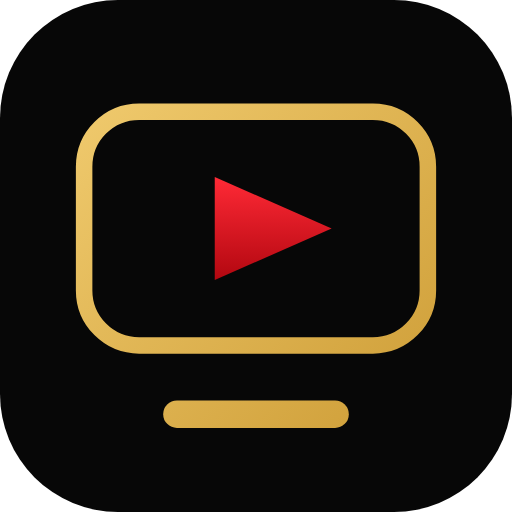
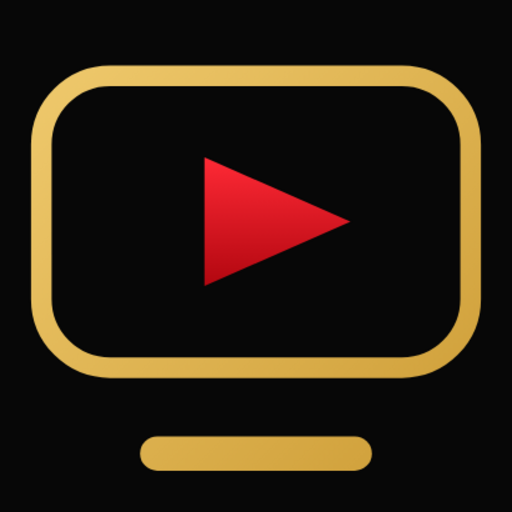
Icones: desenho ocupando o quadro, e sem transparencia
No atalho da tela de inicio o simbolo aparecia pequeno, boiando no
meio do quadro. Duas causas:

- sobrava margem preta demais em volta do desenho. Os icones foram
  recortados para a TV ocupar mais do quadrado, que e como os icones
  de aplicativo se parecem na tela de inicio;
- os de 192 e 512 tinham transparencia, e ai o sistema compoe sobre
  branco e o simbolo parece flutuar num cartao claro. Passam a ser
  opacos, com o mesmo fundo escuro da marca.

O icone adaptavel do Android (icone-mascara-512) nao foi tocado: ele
precisa da margem de seguranca, que e justamente o que foi tirado dos
outros.

VERSAO do service worker sobe para v4, para os icones guardados no
aparelho darem lugar aos novos sem esperar o cache vencer.

Testes: 75/75.

Claude-Session: https://claude.ai/code/session_012tTAp6e2aiDtjsJNsnZSvF

diff --git a/tv/public/sw.js b/tv/public/sw.js
@@ -12,7 +12,7 @@
  * Ao publicar uma versão nova do app, mude VERSAO: o navegador troca tudo na próxima abertura.
  */
 
-const VERSAO = 'v3';
+const VERSAO = 'v4';
 const CASCA = `playtechvip-casca-${VERSAO}`;
 const ARTES = `playtechvip-artes-${VERSAO}`;
 const ARTES_MAX = 150;
